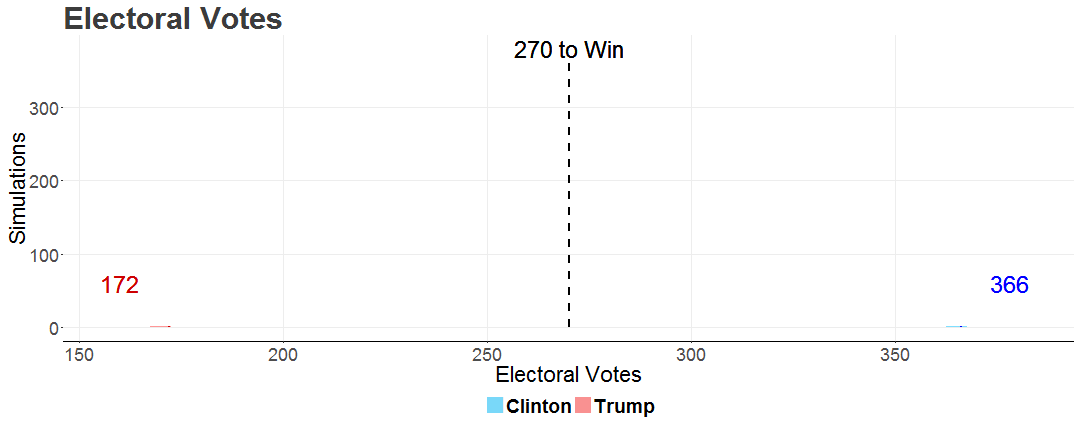
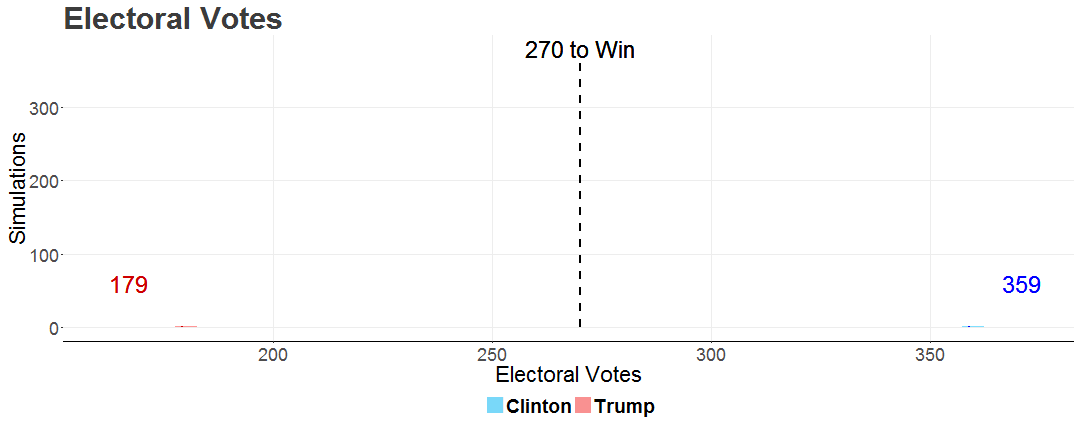
update

diff --git a/index.html b/index.html
@@ -184,9 +184,9 @@ table#t1 th {
   <link rel="icon" href="C:\Users\Elliott\election_forecasts\E.png">
 
     <title>2016 General Election Forecasts</title>
-    <meta property="og:image" content="https://elliottevans.github.io/election_forecasts/figure/preview.png" />
     <meta name="viewport" content="width=device-width, initial-scale=1.0">
     <meta property="og:description" content="Predictions for the 2016 Presidential Election" />
+    <meta property="og:image" content="https://elliottevans.github.io/election_forecasts/figure/preview.png" />
     <!--
     production
     <link href="http://twitter.github.io/bootstrap/assets/css/bootstrap.css" rel="stylesheet">
@@ -285,7 +285,7 @@ table#t1 th {
 
       <div class="row">
         <div class="span12">
-          <p class="lead">Presidential elections are all about who can get to 270 electoral votes. After simulating the election ten-thousand times, the model predicts a <b>366-172 electoral win for Hillary Clinton</b>.</p>
+          <p class="lead">Presidential elections are all about who can get to 270 electoral votes. After simulating the election ten-thousand times, the model predicts a <b>359-179 electoral win for Hillary Clinton</b>.</p>
         </div>
       </div>
       
@@ -309,7 +309,7 @@ table#t1 th {
           <center>
             <h1>Where Will the Candidates Win?</h1>
           </center>
-          <p class="lead">Here's the electoral map based on margins of victory. In darker blue states, Clinton is favored to win by a wider margin, while in darker red states, Trump is favored.</p>
+          <p class="lead">Here are some electoral maps based on margins of victory. In darker blue states, Clinton is favored to win by a wider margin, while in darker red states, Trump is favored.</p>
         </div>
       </div>
       
